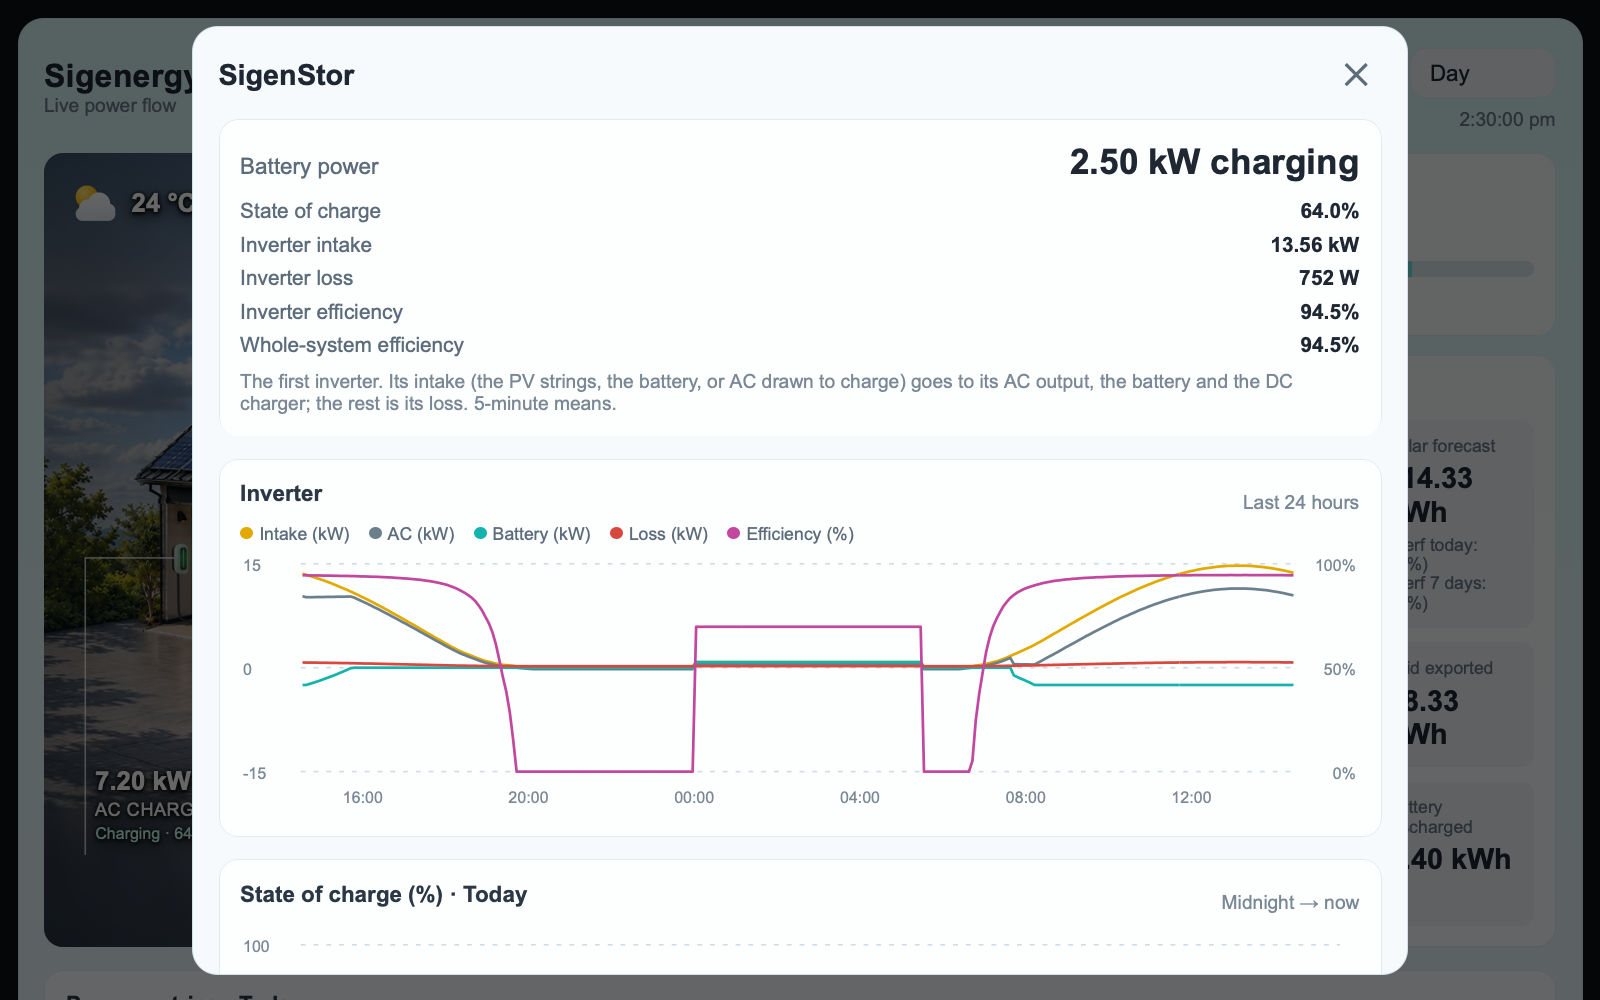
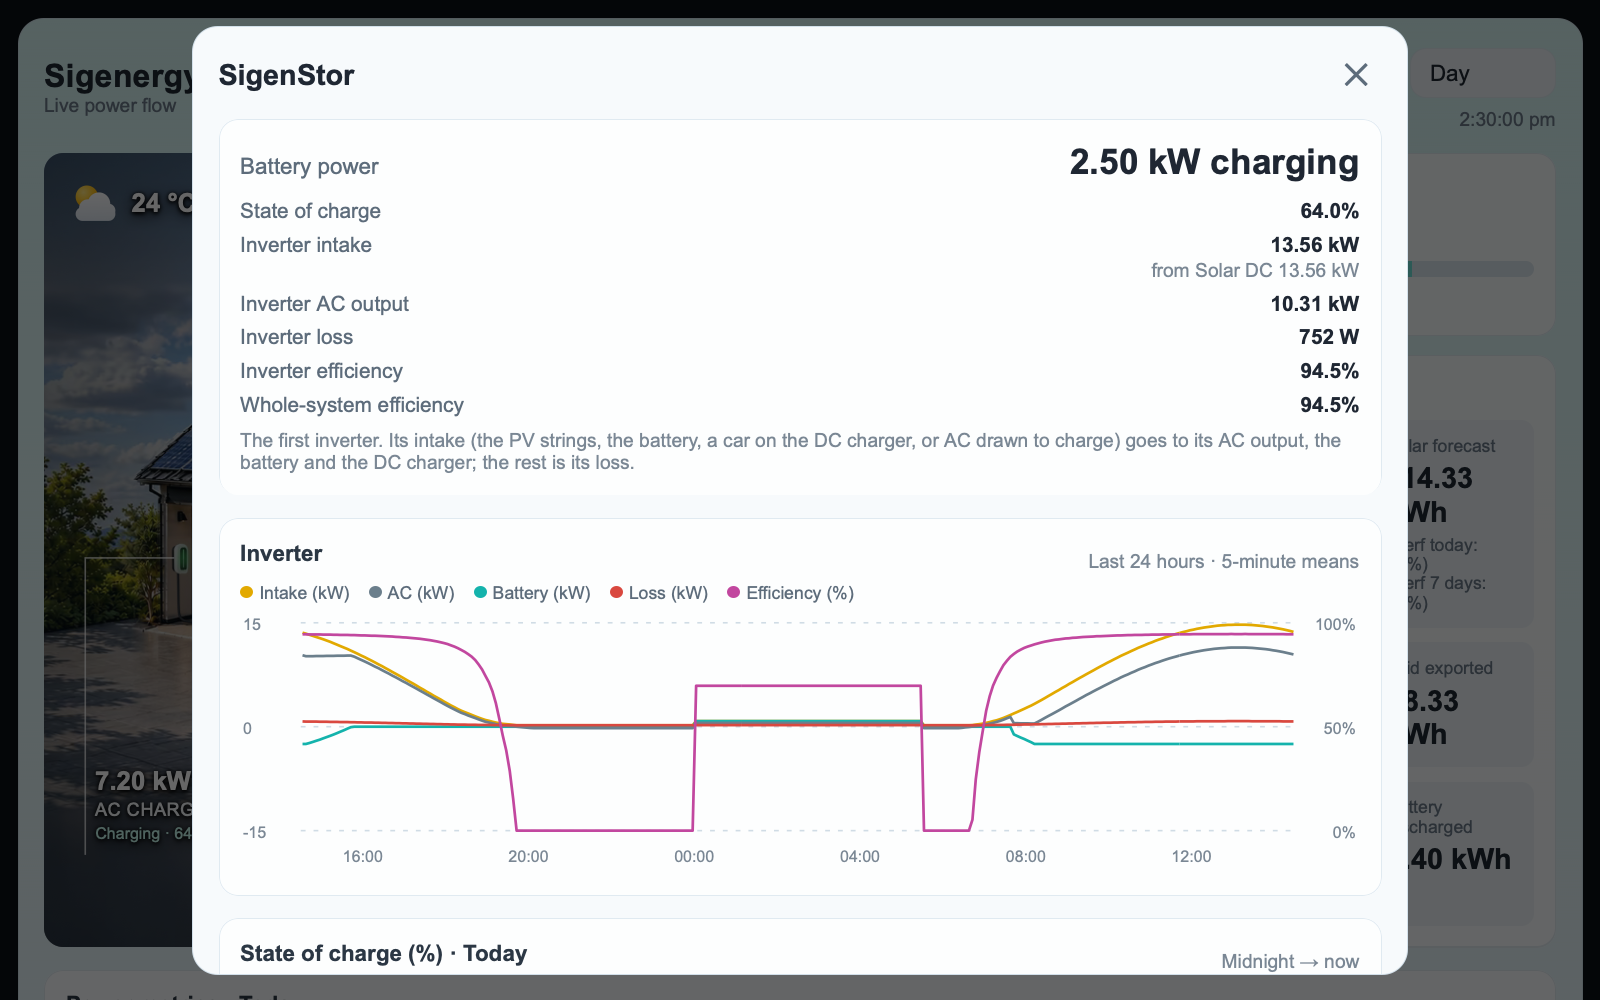
Mark the card file as v80 and refresh the screenshots

diff --git a/sigenergy-flow-card.js b/sigenergy-flow-card.js
@@ -14,7 +14,7 @@
  * limitations under the License.
  */
 
-/* Sigenergy Flow Card v79 — standalone Home Assistant Lovelace custom card */
+/* Sigenergy Flow Card v80 — standalone Home Assistant Lovelace custom card */
 
 // Scene coordinates: the house photo (1676x557 units) sits between a band above it for the SOLAR and HOME
 // readings and a band below it for SigenStor and GRID. tools/embed-artwork.py builds both bands from

diff --git a/CHANGELOG.md b/CHANGELOG.md
@@ -2,6 +2,16 @@
 
 Each release is tagged `vN` on GitHub; HACS offers the newest release as the update.
 
+## v80
+
+- The SigenStor dialog shows two battery round trip calculations:
+  1. **(AC)** is what you get back for what you put in, inverter included. It is lower than the DC figure, mostly because of the inverter's own consumption. That weighs most on a low-power discharge at night. Hours without the inverter's statistics are left out and marked ⚠.
+  2. **(DC)** is the battery alone, as v79 showed it. It is typically in the high 90s.
+- The dialog's summary shows the inverter's AC output, and where its intake comes from: solar DC, the battery, a car on the DC charger (V2X), or AC drawn. Several can feed it at once.
+- The summary and the efficiency beside SigenStor show the current readings, like the battery's power. They were 5-minute means. The chart still shows 5-minute means, as its heading says.
+- The chart's tip shows the 5-minute period under the pointer, e.g. 11:30–11:35. It used to show an interpolated value for every minute. It also lists the intake's solar DC and the car's V2X. A negative loss, when readings are briefly out of step, is labelled.
+- The chart's tip no longer shows a value in a gap or after a line ends. Overnight, it kept showing the strings' last few watts and the efficiency's last value.
+
 ## v79
 
 - Tapping SigenStor opens a **SigenStor** dialog ([#28](https://github.com/jyavenard/sigenergy-flow-card/issues/28)). It shows the battery's power and state of charge, the inverter's intake, loss and efficiency, and the battery's round trip over the last 30 days (from the lifetime counters, less the energy it gained; days without statistics are left out and marked ⚠). Its chart draws the last 24 hours as 5-minute means: the inverter's intake, its AC power (output, or drawn from the house and grid), the battery, the DC charger when it ran, the loss, and the efficiency on a right-hand axis; at any time the intake is the AC output plus what charges the battery and the vehicle plus the loss. Today's state of charge chart, which the percentage beside SigenStor used to open on its own, follows.
